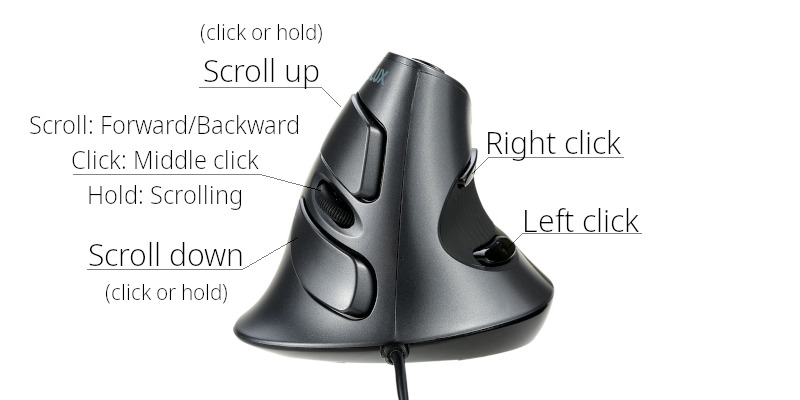
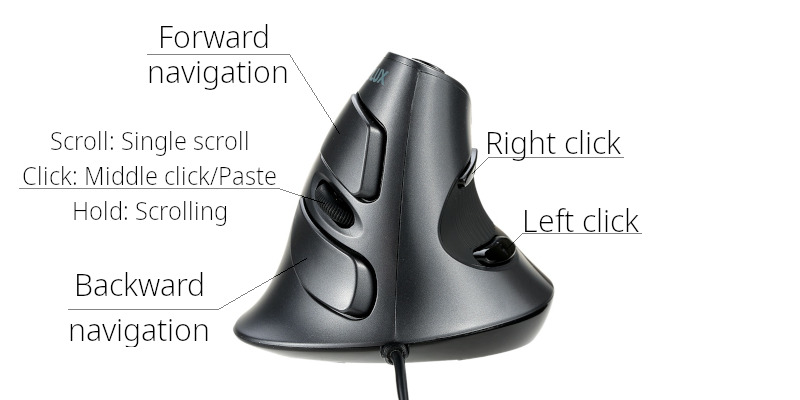
Update mapping to avoid scrolling conflicts with firefox and other softwares.

diff --git a/README.md b/README.md
@@ -2,15 +2,16 @@
 
 # M618 linux ergonomic button mapping
 
-Linux custom xbindkeys/xinput mapping for more ergonomic usage of M618 vertical mouse series.
+Linux custom `xinput` re-mapping for more ergonomic usage of the M618 vertical mouse series.
 
 - [x] Basic re-mapping
 - [x] `.xprofile` to make it work on X11 independent of desktop manager
-- [ ] Keep scrolling while holding right-sideway buttons
+- [x] Keep scrolling while holding middle-button
+- [x] Support horizontal scrolling
 
 ## Maximum confort
 
-If you are using a vertical mouse, chances are that you are trying to avoid Carpal Tunnel Syndrome.
+If you are using a vertical mouse, chances are that you are trying to avoid [Carpal Tunnel Syndrome](https://en.wikipedia.org/wiki/Carpal_tunnel_syndrome).
 
 By not using a traditional flat horizontal mouse, you already aleviate a lot of tension from your wrist, but that's not enough!
 
@@ -24,11 +25,20 @@ The buttons normally reserved for backward and forward navigation are now used a
 
 ### Scrolling with less effort as possible
 
-The buttons originally used as left and right click are now used as scroll up and scroll down respectively.
-The idea is simple: you just click and the pages click scrolling as you need.
-No more wheel scrolling killing your finger and forearm anymore.
+You can still use the wheel for precise scrolling if you need, but you should avoid it.
+The idea is simple: you just click and hold the middle button (wheel button) and move your mouse to scroll your content. It works for both *horizontal* and *vertical* scroll.
+No more need to smash the scroll wheel thus killing your finger and forearm.
 
 ### Wheel to go back and forth
 
-Since we don't want to lose all the original functionalities, now we map the backward and forward functionalities to the scroll wheel since this is not so much common as the other actions,
-so the effort doesn't hurt you.
+Since we don't want to lose all the original functionalities, now we map the backward and forward functionalities to the original left and right buttons respectively.
+
+## Why this settings?
+
+I've found these to be the easiest to work under Linux without conflicts between different programs.
+
+Normally I use a slightly different configuration on Windows/Mac, but using proprietary software for button remapping. Unfortunately, I could not find any easy to install up-to-date Linux software with out-of-the-box support for this mouse.
+
+Normally, I'd use the original left/right click buttons for scrolling and the wheel for back/forward functionality. Unfortunately, mouse scroll button events don't work as one would expect on `X11`. Instead of keeping the scroll button pressed and the system handling the automatic press/release cycle, as we keep the button pressed only one event is registered until we release the button. Thus, I could not find an easy way to hold and keep scrolling.
+
+Fortunately, [`xinput`](https://linux.die.net/man/1/xinput) through [`libinput`](https://www.mankier.com/4/libinput) supports the `libinput Button Scrolling Button` **and** `libinput Scroll Method Enabled` properties. Therefore, we can set them on the mouse and enable scrolling while holding down the middle button without losing its regular functionality.
